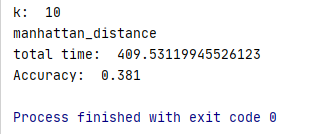
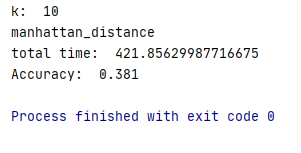
'knn'

Changed region(s): [[0.0, 0.0, 0.9269, 1.0], [0.7176, 0.8358, 0.897, 0.9254], [0.1196, 0.0299, 0.2093, 0.1493]]

diff --git a/cifar10.py b/cifar10.py
@@ -39,8 +39,8 @@ def load(path):
     max_v = np.max(tmp, axis=0)
     min_v = np.min(tmp, axis=0)
     dif = max_v - min_v
-    train_data /= dif
-    test_data /= dif
+    train_data = (train_data - min_v) / dif
+    test_data = (test_data - min_v) / dif
     # print(dif.shape)
     # print(train_data.shape)
     # print(test_data.shape)

diff --git a/result/超参数对比.md b/result/超参数对比.md
@@ -5,7 +5,7 @@ $$
 d(x, y) = |x_1 - x_2 | + | y_1 + y_2 |
 $$
 算法表现:
-* 在k=10，对数据进行归一化且使用kd-tree加速查找的情况下，使用曼哈顿距离作为超参数跑了409秒， 得分为0.381分(满分为1分)。
+* 在k=10，对数据进行归一化且使用kd-tree加速查找的情况下，使用曼哈顿距离作为超参数跑了421秒， 得分为0.381分(满分为1分)。
 
 ![manhattan](result_manhattan.png)
 
@@ -17,7 +17,7 @@ d(x, y) = \sqrt{\sum_{i=1}^n(x_i - y_i)^2}
 $$
 算法表现:
 
-* 同样情况下使用欧几里德距离作为超参数，费时414秒，得分为0.3386分。
+* 同样情况下使用欧几里德距离作为超参数，费时413秒，得分为0.3386分。
 
 ![euclidean](result_euclidean.png)
 
